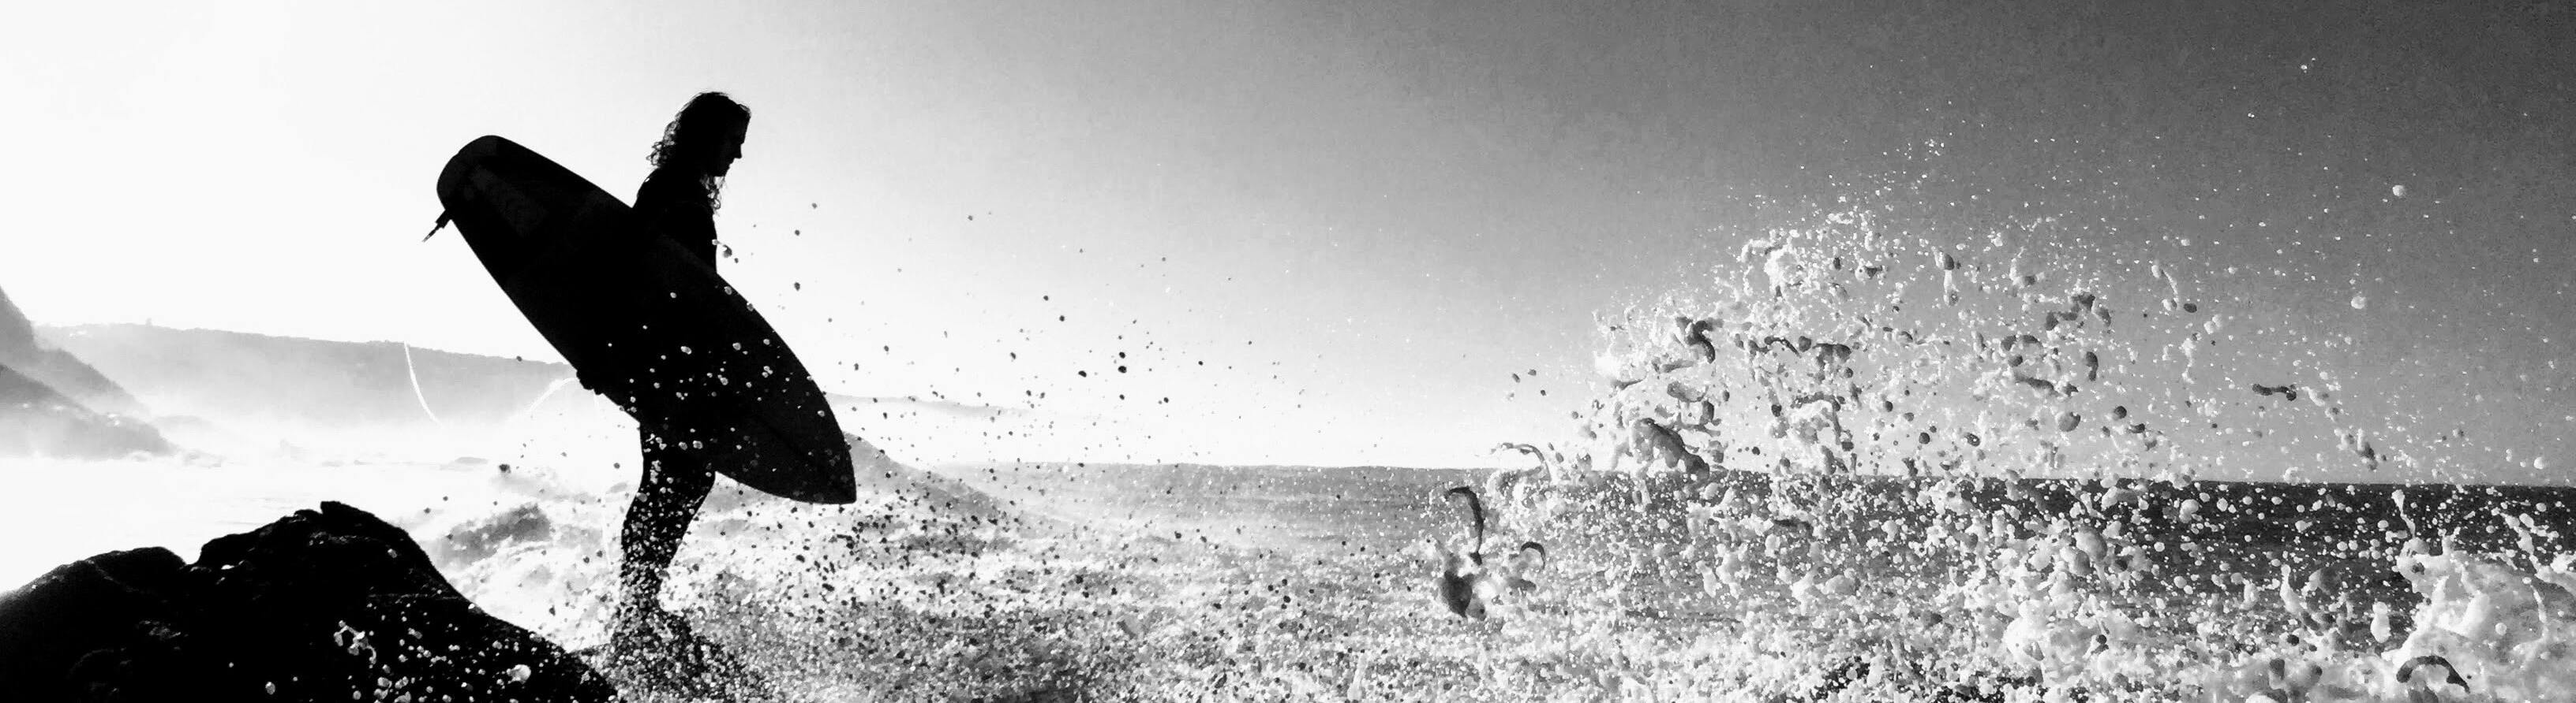
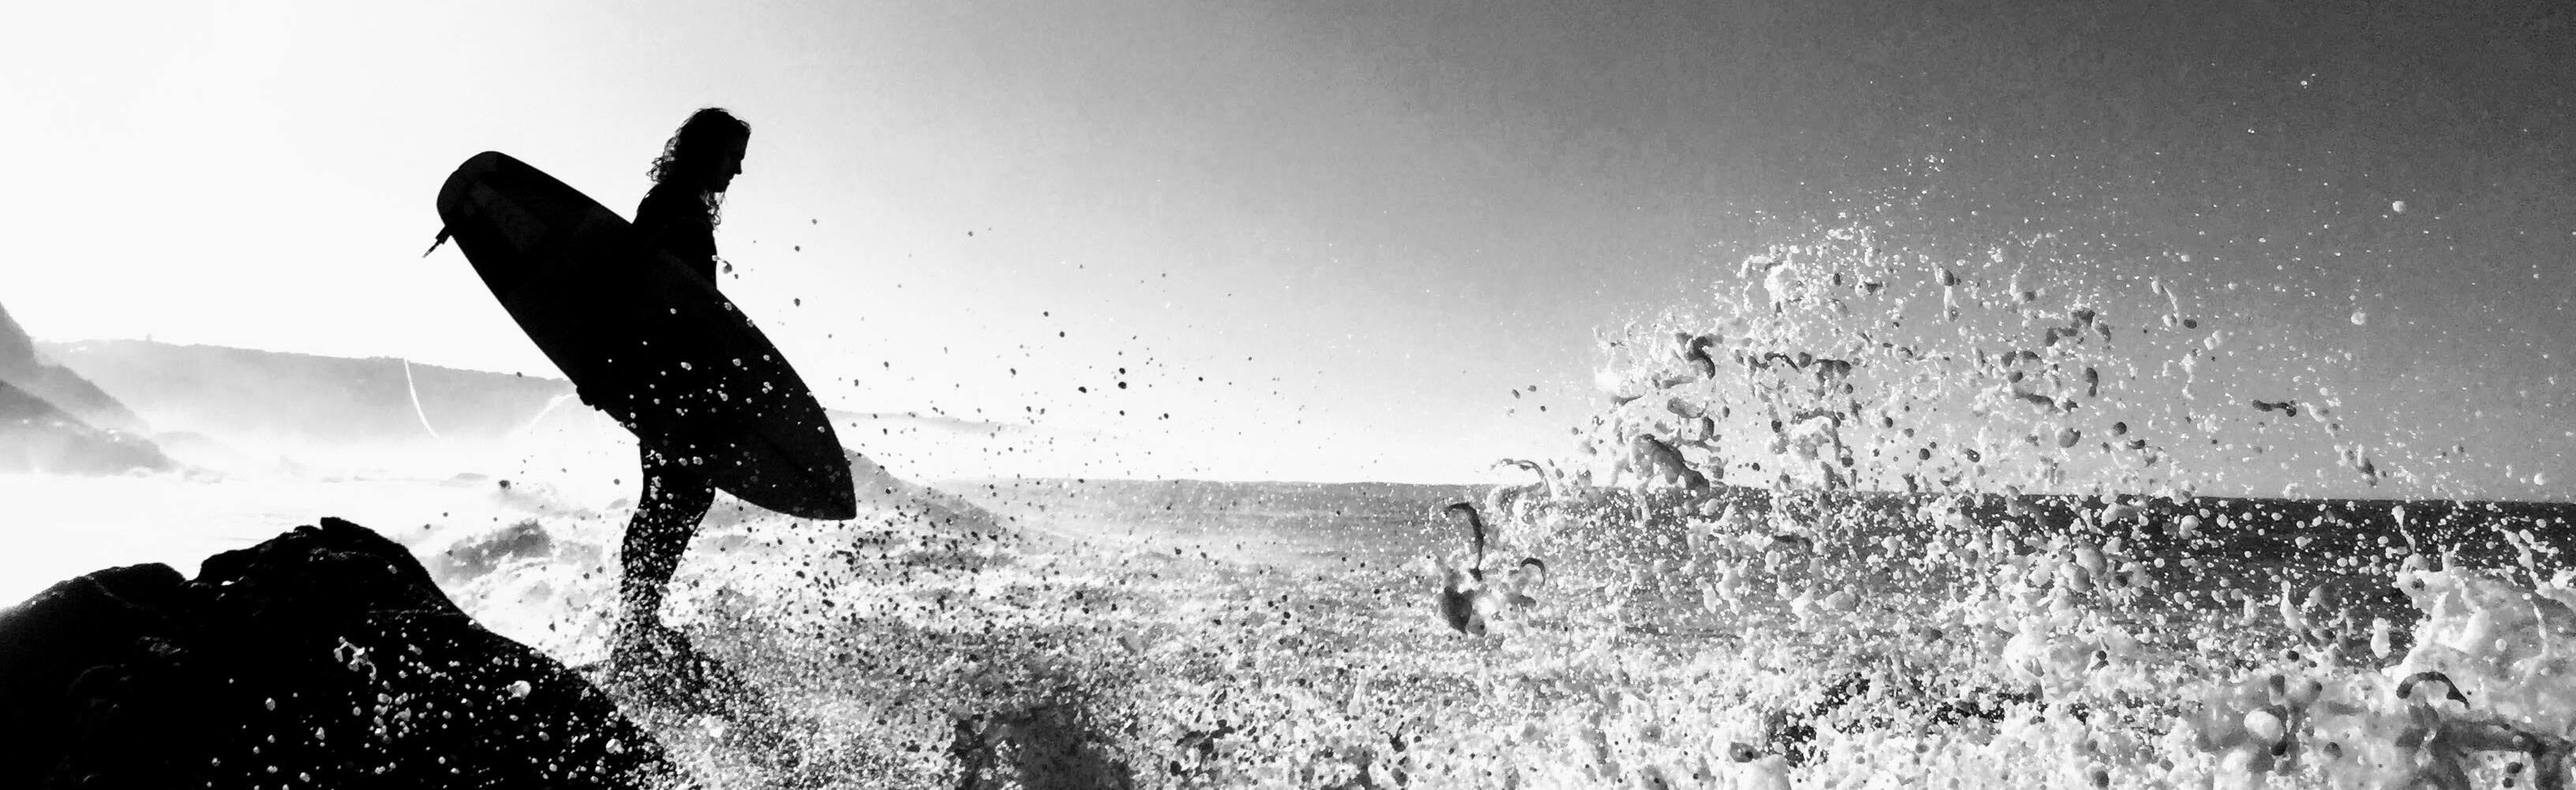
Update header images

diff --git a/components/Splash/Splash.module.css b/components/Splash/Splash.module.css
@@ -3,7 +3,7 @@
   width: 100;
   top: var(--nav-height);
   height: calc(100vh - var(--nav-height));
-  background-image: url("/wave_cropped.jpg");
+  background-image: url("/wave_cropped2.jpg");
   background-size: cover;
   bottom: 0;
   margin: 0;
@@ -31,8 +31,8 @@
   border-radius: var(--border-radius);
   padding: 0.75rem;
   max-width: 14rem;
-  margin-left: 30%;
-  margin-top: 2.5rem;
+  margin-left: 20%;
+  margin-top: 1rem;
 }
 
 .action_items button:hover {

diff --git a/styles/Page.module.css b/styles/Page.module.css
@@ -6,7 +6,7 @@
 
 .image_header {
   position: relative;
-  width: 100;
+  width: 100%;
   height: var(--img-header-height);
   background-image: url("/meadow_cropped_narrow.jpg");
   background-size: cover;
@@ -36,7 +36,7 @@
 
 .image_header_surf {
   position: relative;
-  width: 100;
+  width: 100%;
   height: var(--img-header-height);
   background-image: url("/surf_cropped.jpg");
   background-size: cover;
